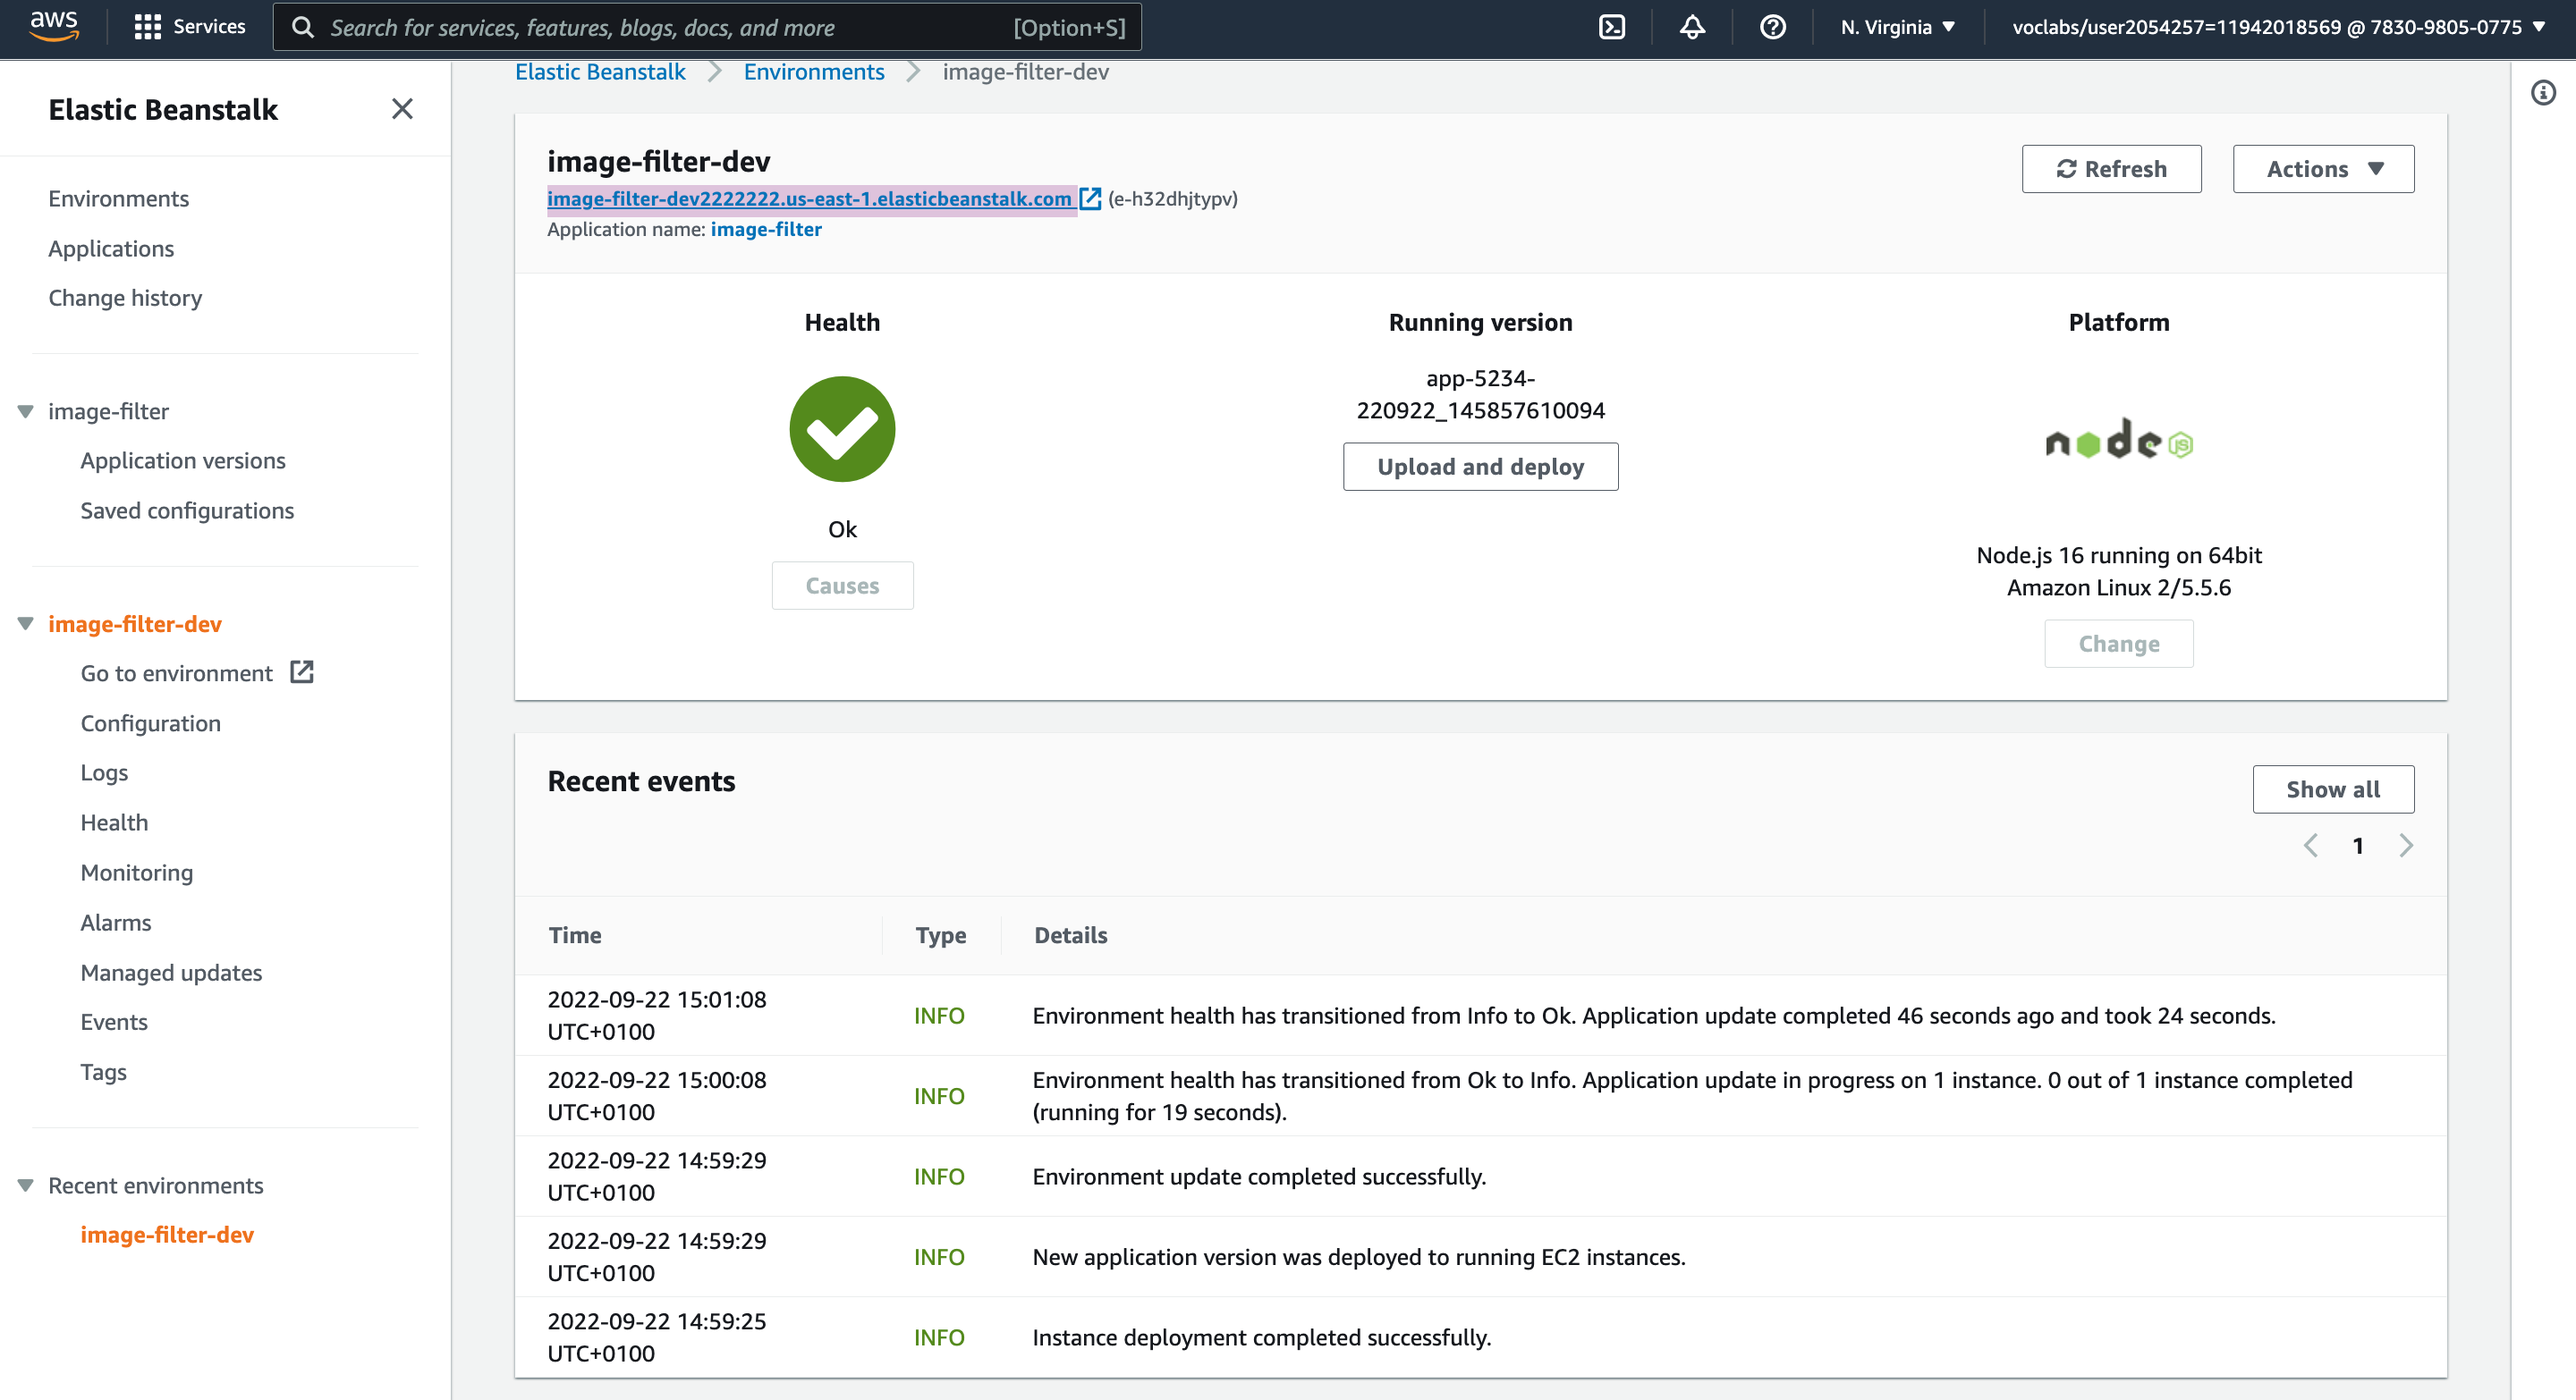
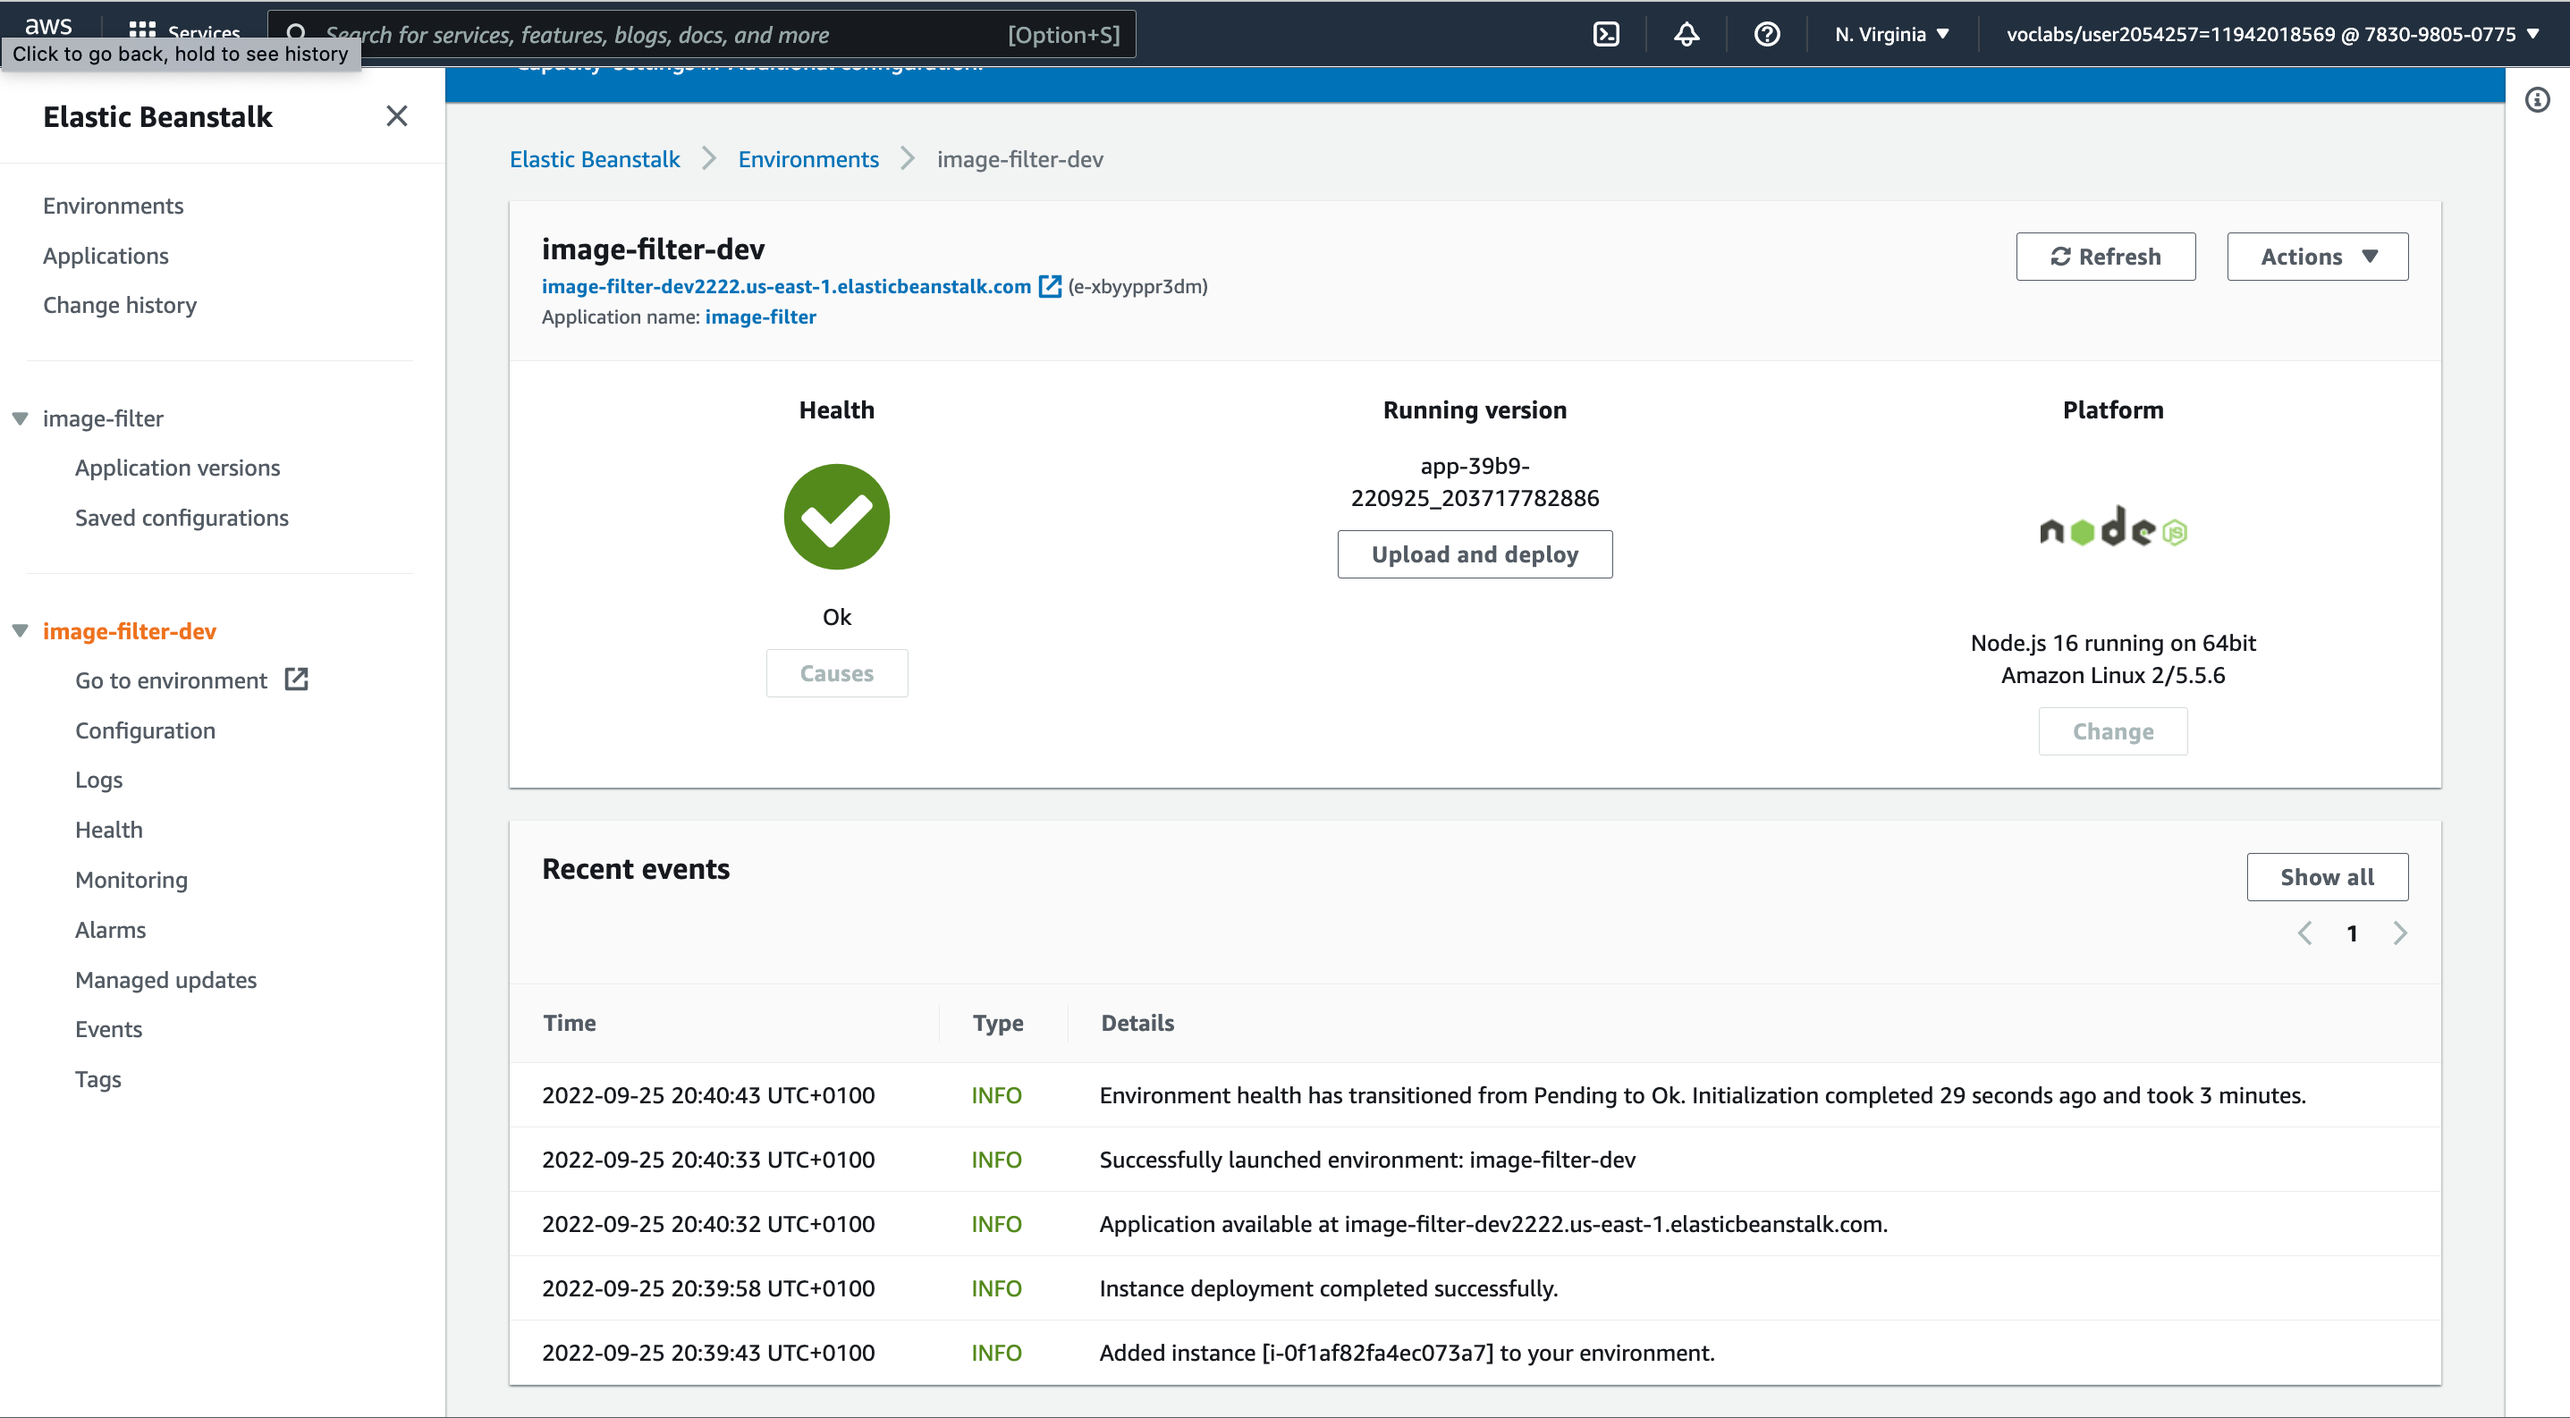
added deployment screenshot

diff --git a/README.md b/README.md
@@ -8,6 +8,10 @@ A basic Ionic client web application which consumes the RestAPI Backend. [Covere
 2. [The RestAPI Backend](https://github.com/udacity/cloud-developer/tree/master/course-02/exercises/udacity-c2-restapi), a Node-Express server which can be deployed to a cloud service. [Covered in the course]
 3. [The Image Filtering Microservice](https://github.com/udacity/cloud-developer/tree/master/course-02/project/image-filter-starter-code), the final project for the course. It is a Node-Express application which runs a simple script to process images. [Your assignment]
 
+## Image Filtering Microservice Endpoint
+http://image-filter-dev2222.us-east-1.elasticbeanstalk.com/
+
+
 ## Tasks
 
 ### Setup Node Environment
